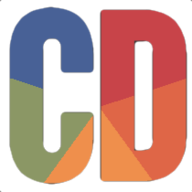
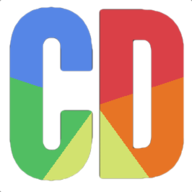
Restyled login form, added and styled basic table layout for teacher order form page.

diff --git a/src/components/teacherView.js b/src/components/teacherView.js
@@ -1,8 +1,175 @@
 import React from "react";
 import "../styles/TeacherView.css";
+import moment from "moment";
+import pizza from "../images/pizza.png";
+import pasta from "../images/pasta.png";
+import fish from "../images/fish.png";
+import curry from "../images/curry.png";
+import noDinner from "../images/nodinner.png";
 
 const TeacherView = () => {
-  return <div>1DS</div>;
+  let tomorrow;
+  if (moment().add(1, "day").endOf("day").format("dddd") === "Saturday") {
+    tomorrow = moment().add(3, "day").endOf("day");
+  }
+  if (moment().add(1, "day").endOf("day").format("dddd") === "Sunday") {
+    tomorrow = moment().add(2, "day").endOf("day");
+  } else {
+    tomorrow = moment().add(1, "day").endOf("day");
+  }
+
+  return (
+    <div className="TeacherView">
+      <p className="order-message">You are ordering dinners for </p>
+      <p className="tomorrow">{tomorrow.format("dddd, MMMM Do YYYY")}!</p>
+      <form class="order-form">
+        <table class="table table-responsive">
+          <thead>
+            <tr>
+              <th name="childName"></th>
+              <th name="pizza">
+                <img src={pizza} className="foodicon pizza meat" alt="pizza" />
+                Pizza
+              </th>
+              <th name="pasta">
+                <img src={pasta} className="foodicon pasta veg" alt="pasta" />
+                Pasta
+              </th>
+              <th name="fish">
+                <img src={fish} className="foodicon pizza fish" alt="fish" />
+                Fish and Chips
+              </th>
+              <th name="quorn">
+                <img src={curry} className="foodicon pizza veg" alt="curry" />
+                Quorn Curry
+              </th>
+              <th name="noDinner">
+                <img
+                  src={noDinner}
+                  className="foodicon noDinner"
+                  alt="noDinner"
+                />
+                Dinner not needed
+              </th>
+            </tr>
+          </thead>
+          <tbody>
+            <tr className="childRow">
+              <td>
+                <div class="radiotext">
+                  <label for="childName">Dean Spooner</label>
+                </div>
+              </td>
+              <td>
+                <input type="radio" for="pizza" title="pizza" name="child1" />
+              </td>
+              <td>
+                <input type="radio" for="pasta" title="pasta" name="child1" />
+              </td>
+              <td>
+                <input type="radio" for="fish" title="fish" name="child1" />
+              </td>
+              <td>
+                <input type="radio" for="quorn" title="quorn" name="child1" />
+              </td>
+              <td>
+                <input
+                  type="radio"
+                  for="noDinner"
+                  title="noDinner"
+                  name="child1"
+                />
+              </td>
+            </tr>
+            <tr className="childRow">
+              <td>
+                <div class="radiotext">
+                  <label for="childName">Matt Holmes</label>
+                </div>
+              </td>
+              <td>
+                <input type="radio" for="pizza" title="pizza" name="child2" />
+              </td>
+              <td>
+                <input type="radio" for="pasta" title="pasta" name="child2" />
+              </td>
+              <td>
+                <input type="radio" for="fish" title="fish" name="child2" />
+              </td>
+              <td>
+                <input type="radio" for="quorn" title="quorn" name="child2" />
+              </td>
+              <td>
+                <input
+                  type="radio"
+                  for="noDinner"
+                  title="noDinner"
+                  name="child2"
+                />
+              </td>
+            </tr>
+            <tr className="childRow">
+              <td>
+                <div class="radiotext">
+                  <label for="childName">Alex White</label>
+                </div>
+              </td>
+              <td>
+                <input type="radio" for="pizza" title="pizza" name="child3" />
+              </td>
+              <td>
+                <input type="radio" for="pasta" title="pasta" name="child3" />
+              </td>
+              <td>
+                <input type="radio" for="fish" title="fish" name="child3" />
+              </td>
+              <td>
+                <input type="radio" for="quorn" title="quorn" name="child3" />
+              </td>
+              <td>
+                <input
+                  type="radio"
+                  for="noDinner"
+                  title="noDinner"
+                  name="child3"
+                />
+              </td>
+            </tr>
+            <tr className="childRow">
+              <td>
+                <div class="radiotext">
+                  <label for="childName">Nathan Mayall</label>
+                </div>
+              </td>
+              <td>
+                <input type="radio" for="pizza" title="pizza" name="child4" />
+              </td>
+              <td>
+                <input type="radio" for="pasta" title="pasta" name="child4" />
+              </td>
+              <td>
+                <input type="radio" for="fish" title="fish" name="child4" />
+              </td>
+              <td>
+                <input type="radio" for="quorn" title="quorn" name="child4" />
+              </td>
+              <td>
+                <input
+                  type="radio"
+                  for="noDinner"
+                  title="noDinner"
+                  name="child4"
+                />
+              </td>
+            </tr>
+          </tbody>
+        </table>
+        <button type="submit" className="order-form-button">
+          Done!
+        </button>
+      </form>
+    </div>
+  );
 };
 
 export default TeacherView;

diff --git a/src/components/Home.js b/src/components/Home.js
@@ -8,23 +8,31 @@ const Home = () => {
       <p className="login-message">Please login below:</p>
       <div class="login-form">
         <form>
-          <label for="username">Username: </label>
+          <label for="username" className="login-input">
+            Username:{" "}
+          </label>
           <input
+            className="login-input"
             type="text"
             placeholder="Your Username"
             name="username"
             required
           />
           <br />
-          <label for="password">Password: </label>
+          <label for="password" className="login-input">
+            Password:{" "}
+          </label>
           <input
+            className="login-input"
             type="password"
             placeholder="Your Password"
             name="password"
             required
           />
           <br />
-          <button type="submit">Login</button>
+          <button type="submit" className="login-form-button">
+            Login
+          </button>
           <br />
           <label>
             <input type="checkbox" checked="checked" name="remember" /> Remember

diff --git a/src/styles/Home.css b/src/styles/Home.css
@@ -32,11 +32,62 @@
 }
 
 .login-form {
-  background-color: #3f3d3d;
+  animation: loginRev 1s forwards;
+  background: conic-gradient(
+    #dc3e43 20%,
+    #e9740e 20%,
+    #e9740e 40%,
+    #d2e367 40%,
+    #d2e367 60%,
+    #4cbf5d 60%,
+    #4cbf5d 80%,
+    #5383e9 80%,
+    #5383e9 100%
+  );
+  background-size: 300%;
+  background-position: -500px;
   border-radius: 25px;
   line-height: 3rem;
   margin: auto;
   padding: 1rem;
   text-align: center;
   width: max-content;
+}
+
+.login-input {
+  display: inline-block;
+}
+
+.login-form:focus-within {
+  animation: login 1s forwards;
+}
+
+.login-form-button {
+  background-color: #4cbf5d;
+  border: 0;
+  border-radius: 12px;
+  font-family: "Bebas Neue", sans-serif;
+  font-size: 1.5rem;
+}
+
+@keyframes login {
+  from {
+    background-position: -500px;
+    background-size: 300%;
+  }
+  to {
+    background-position: -200px;
+    background-size: 200%;
+  }
+}
+
+@keyframes loginRev {
+  from {
+    background-position: -200px;
+    background-size: 200%;
+  }
+  to {
+    background-position: -500px;
+    background-size: 300%;
+  }
 }

diff --git a/src/styles/teacherView.css b/src/styles/teacherView.css
@@ -1,4 +1,74 @@
-body {
-  background-color: aqua;
-  color: red;
+.TeacherView {
+  margin: auto;
+  text-align: center;
+}
+
+.order-message,
+.tomorrow {
+  display: inline-block;
+  font-size: 1.5rem;
+}
+
+.tomorrow {
+  color: #e9740e;
+}
+
+.table {
+  border-collapse: collapse;
+  margin: auto;
+  width: 90%;
+}
+
+th {
+  position: relative;
+  left: 1.5rem;
+  padding-right: 3em;
+}
+
+.foodicon {
+  display: block;
+  border: solid 6px;
+  border-radius: 50%;
+  margin: auto;
+  width: 50%;
+}
+
+.meat {
+  border-color: #ca4246;
+}
+
+.veg {
+  border-color: #4cbf5d;
+}
+
+.fish {
+  border-color: #5383e9;
+}
+
+.noDinner {
+  border-color: #d2e367;
+}
+
+.childRow:nth-of-type(2n) {
+  background-color: #854345;
+}
+.childRow:nth-of-type(2n-1) {
+  background-color: #9a4e4e;
+}
+
+td {
+  padding: 0.5rem 0;
+}
+
+input {
+  width: 100%;
+}
+
+.order-form-button {
+  background-color: #42ba78;
+  border: 0;
+  border-radius: 0 0 12px 12px;
+  font-family: "Bebas Neue", sans-serif;
+  font-size: 1.5rem;
+  width: 90%;
 }

diff --git a/src/styles/NavBar.css b/src/styles/NavBar.css
@@ -23,18 +23,18 @@ li {
 }
 
 .cool-meals-title {
-  background: #ca4246;
-  background-color: #ca4246;
+  background: #dc3e43;
+  background-color: #dc3e43;
   background: conic-gradient(
-    #ca4246 20%,
-    #e16541 20%,
-    #e16541 40%,
-    #f18f43 40%,
-    #f18f43 60%,
-    #8b9862 60%,
-    #8b9862 80%,
-    #476098 80%,
-    #476098 100%
+    #dc3e43 20%,
+    #e9740e 20%,
+    #e9740e 40%,
+    #d2e367 40%,
+    #d2e367 60%,
+    #4cbf5d 60%,
+    #4cbf5d 80%,
+    #5383e9 80%,
+    #5383e9 100%
   );
   background-size: 100%;
   background-repeat: repeat;
